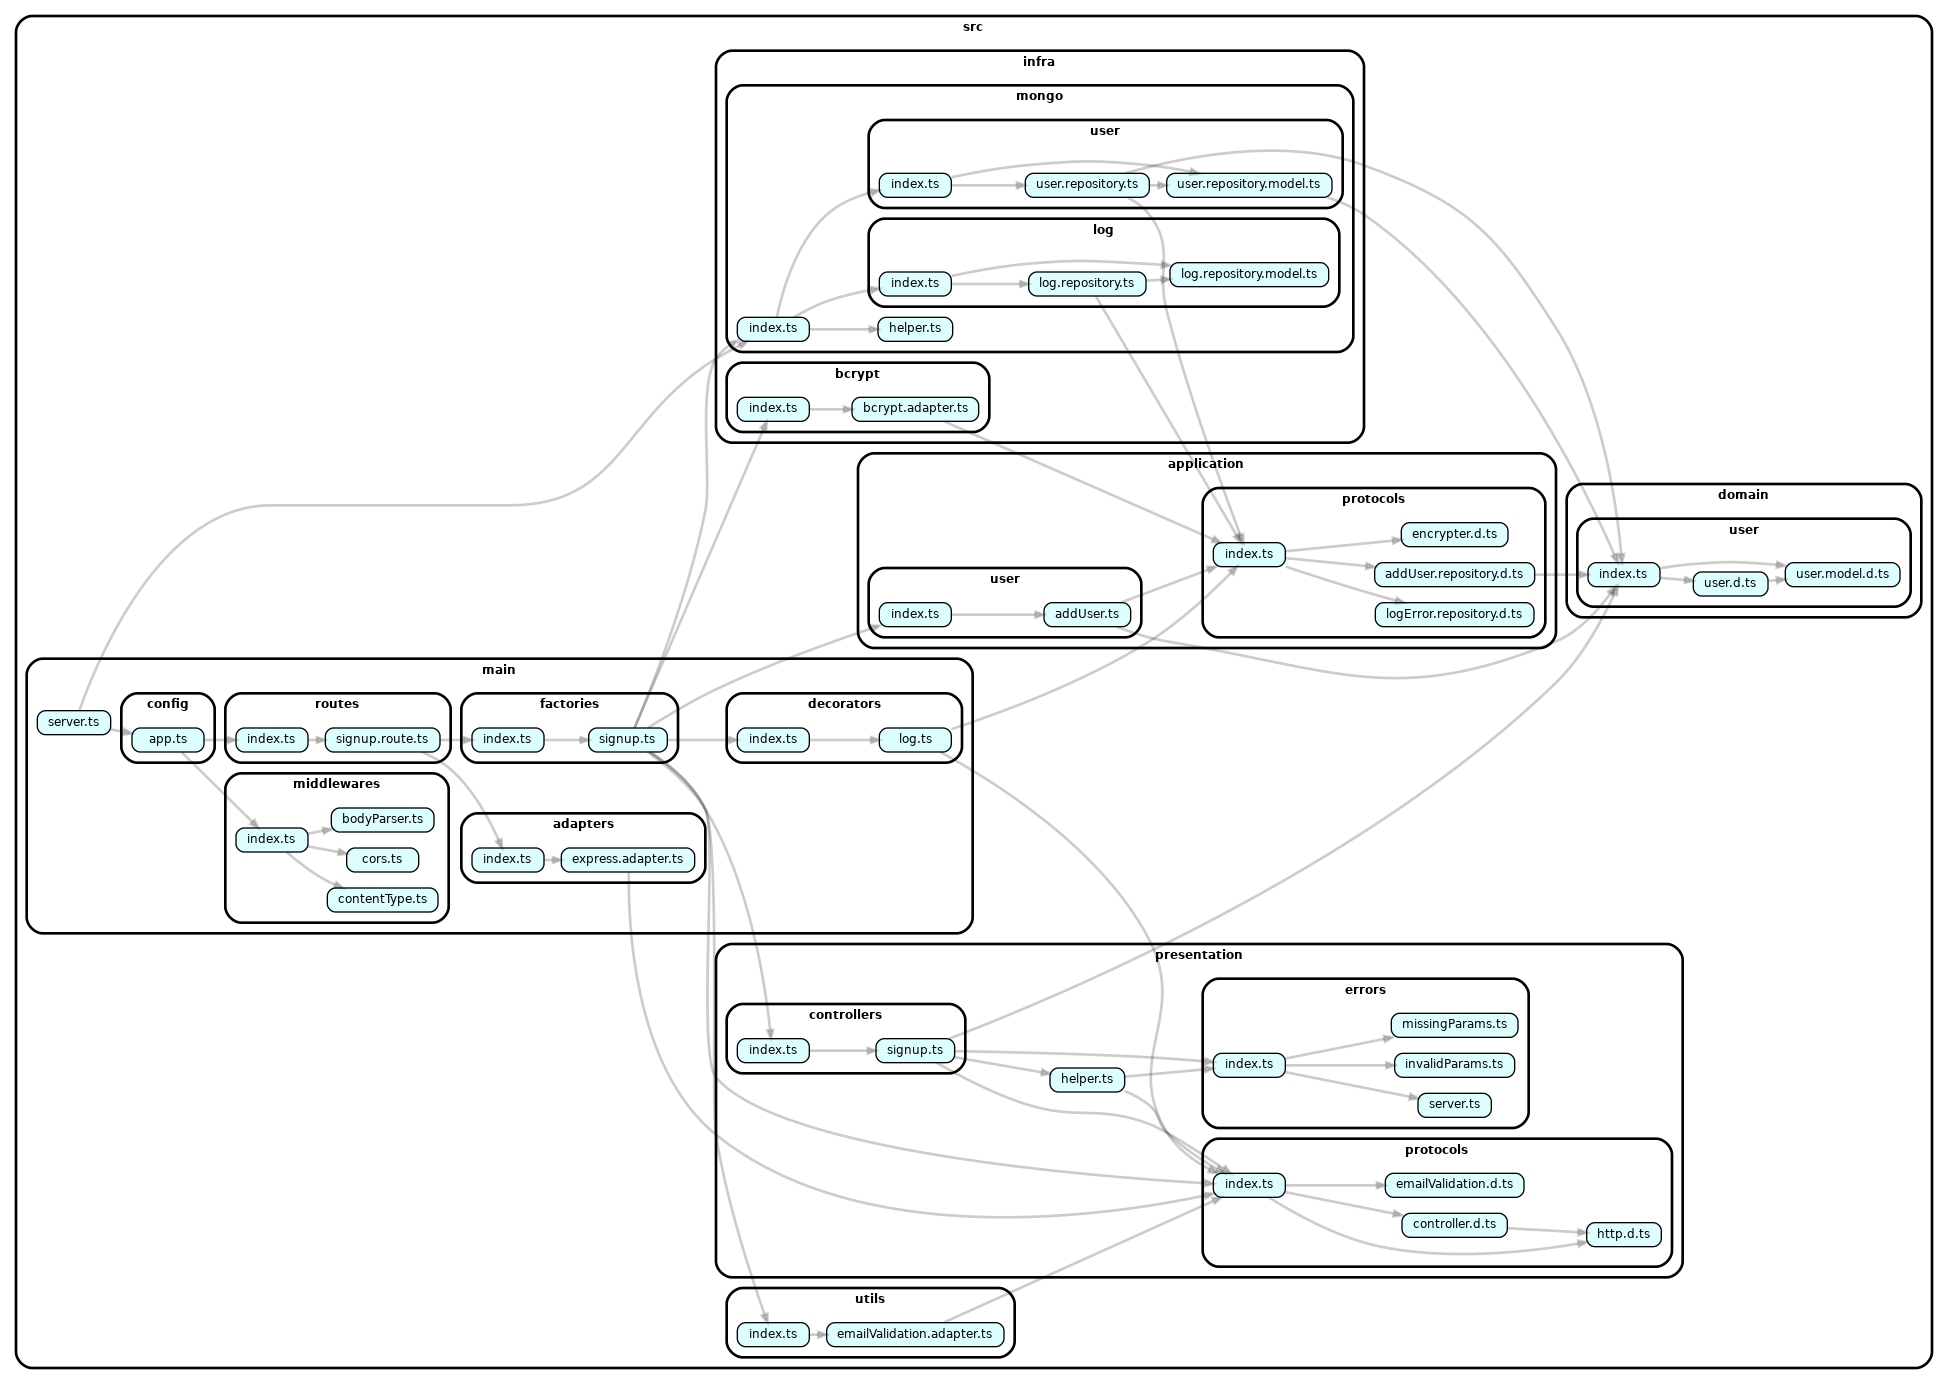
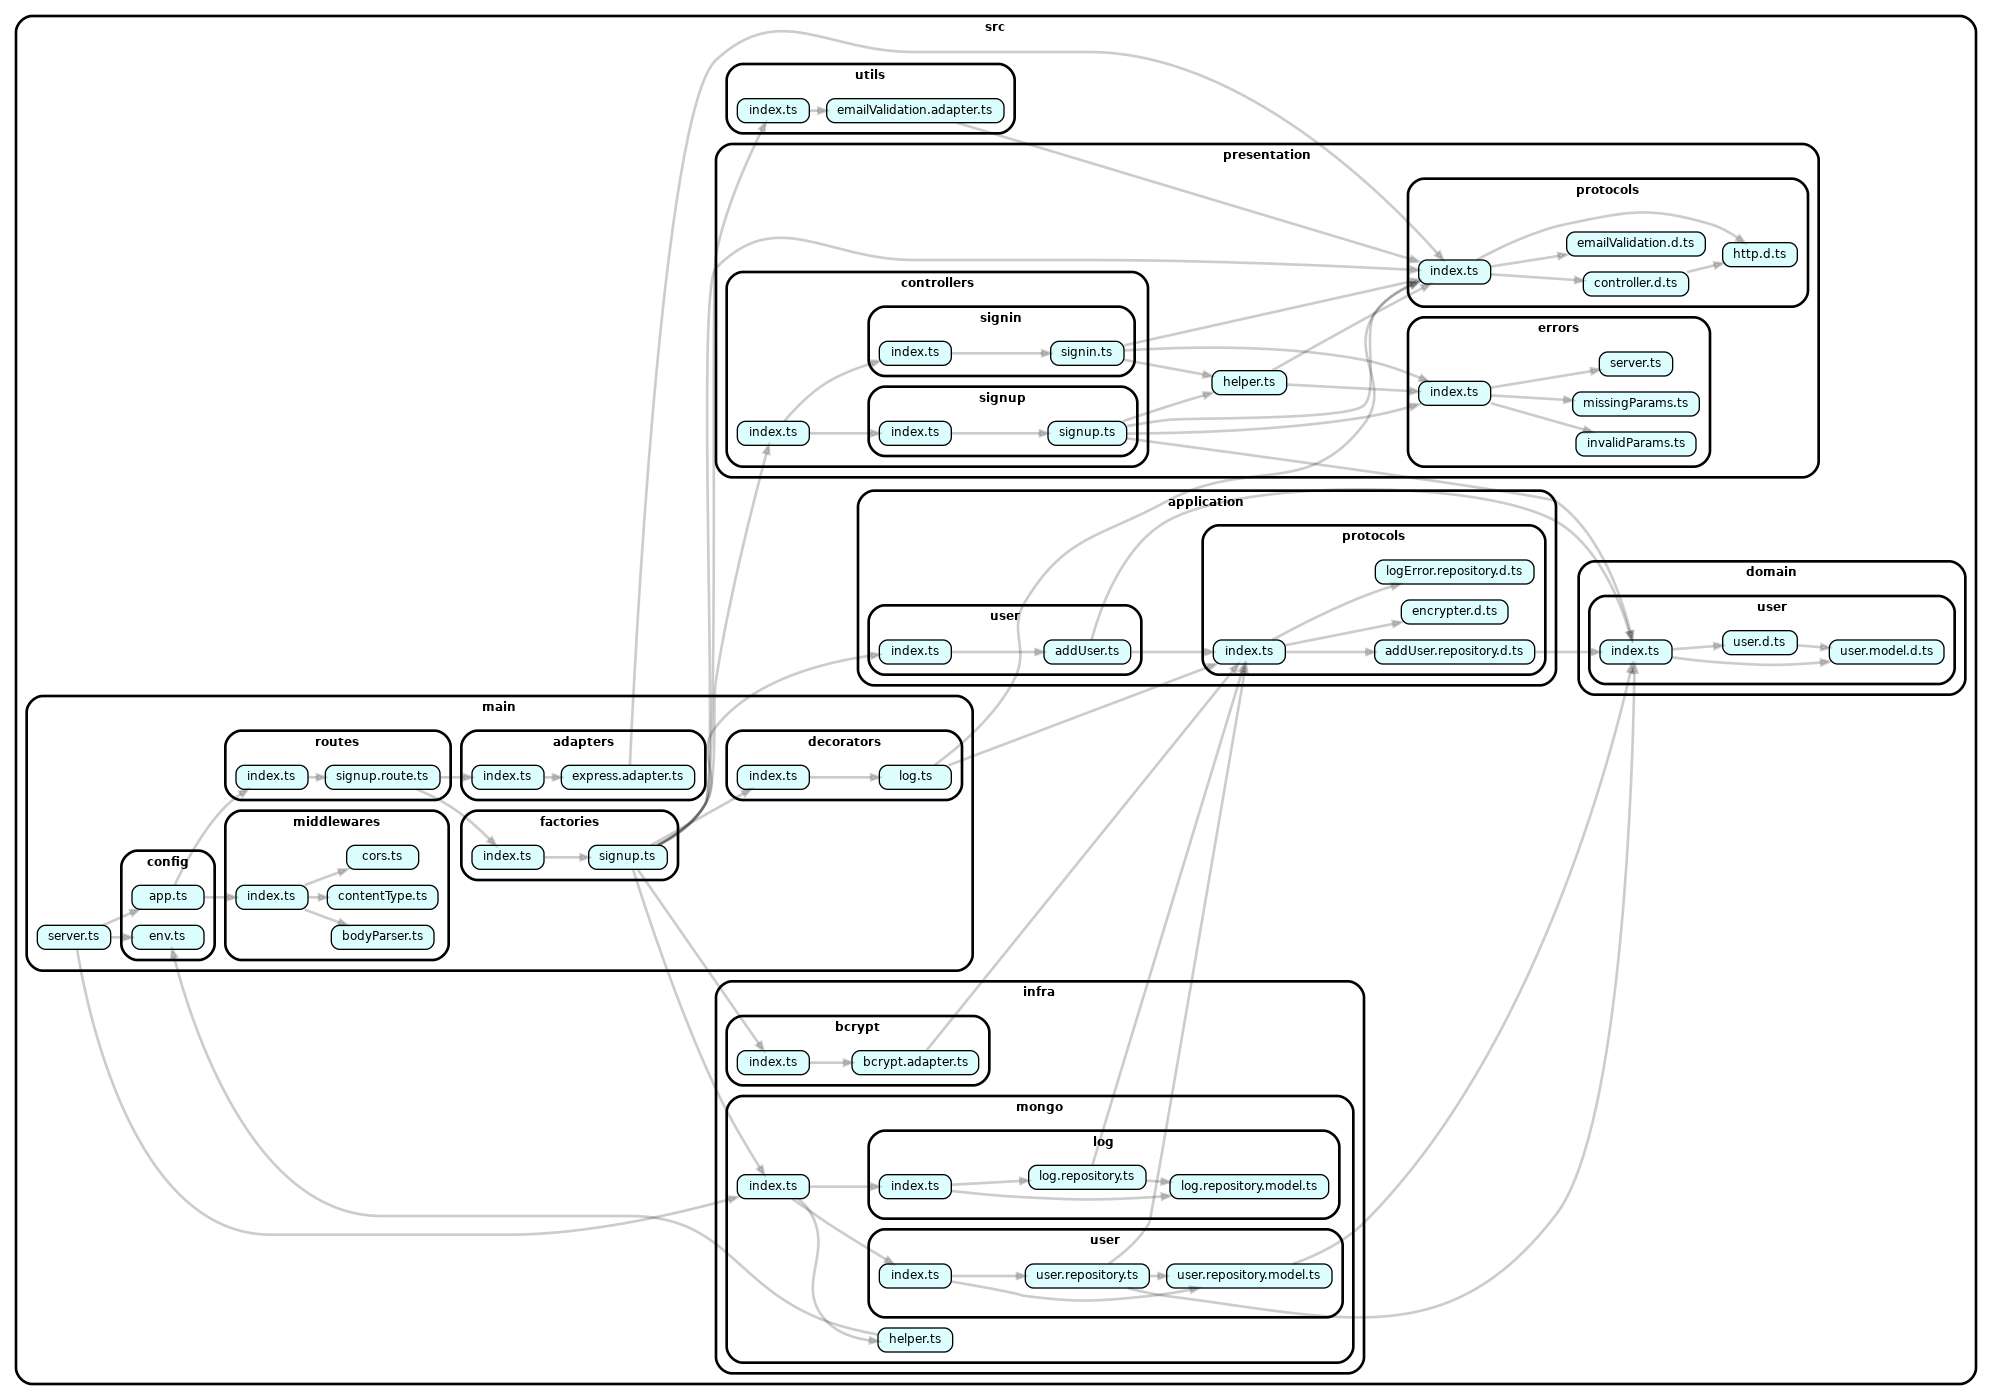
feat: add signin

Changed region(s): [[0.0, 0.0, 1.0, 0.9942], [0.77, 0.6525, 0.8316, 0.6835], [0.5236, 0.5903, 0.5544, 0.6214]]

diff --git a/src/presentation/controllers/signin/signin.spec.ts b/src/presentation/controllers/signin/signin.spec.ts
@@ -1,0 +1,78 @@
+import { InvalidParamsError, MissingParamsError } from '@/presentation/errors'
+import { badRequest } from '@/presentation/helper'
+import { IEmailValidation, IHttpRequest } from '@/presentation/protocols'
+import { SignInController } from './signin'
+
+interface IMockSignIn {
+  signInController: SignInController
+  emailValidation: IEmailValidation
+}
+
+const mockHttpRequest: IHttpRequest = {
+  body: {
+    email: 'email@gmail.com',
+    password: 'password',
+  },
+}
+
+const mockEmailValidation = (): IEmailValidation => {
+  class EmailValidationMock implements IEmailValidation {
+    isValid(): boolean {
+      return true
+    }
+  }
+  return new EmailValidationMock()
+}
+
+const mockSignin = (): IMockSignIn => {
+  const emailValidation = mockEmailValidation()
+  const signInController = new SignInController(emailValidation)
+  return {
+    signInController,
+    emailValidation,
+  }
+}
+
+describe('Sign In Controller', () => {
+  test('400 if no email is provided', async () => {
+    const { signInController } = mockSignin()
+    const httpRequest = {
+      body: {
+        password: 'password',
+      },
+    }
+    const httpResponse = await signInController.handle(httpRequest)
+
+    expect(httpResponse).toEqual(badRequest(new MissingParamsError('email')))
+  })
+
+  test('400 if no password is provided', async () => {
+    const { signInController } = mockSignin()
+    const httpRequest = {
+      body: {
+        email: 'email',
+      },
+    }
+    const httpResponse = await signInController.handle(httpRequest)
+
+    expect(httpResponse).toEqual(badRequest(new MissingParamsError('password')))
+  })
+
+  test('400 if an invalid email', async () => {
+    const { signInController, emailValidation } = mockSignin()
+
+    jest.spyOn(emailValidation, 'isValid').mockReturnValueOnce(false)
+    const httpresponse = await signInController.handle(mockHttpRequest)
+
+    expect(httpresponse).toEqual(badRequest(new InvalidParamsError('email')))
+  })
+
+  test('call EmailValidation with correct email', async () => {
+    const { signInController, emailValidation } = mockSignin()
+
+    const isValidSpy = jest.spyOn(emailValidation, 'isValid')
+    await signInController.handle(mockHttpRequest)
+
+    expect(isValidSpy).toHaveBeenCalledWith('email@gmail.com')
+  })
+})

diff --git a/src/presentation/controllers/signin/signin.ts b/src/presentation/controllers/signin/signin.ts
@@ -1,0 +1,36 @@
+import { InvalidParamsError, MissingParamsError } from '@/presentation/errors'
+import { badRequest } from '@/presentation/helper'
+import {
+  IController,
+  IEmailValidation,
+  IHttpRequest,
+  IHttpResponse,
+} from '@/presentation/protocols'
+
+export class SignInController implements IController {
+  private readonly emailValidation: IEmailValidation
+
+  constructor(emailValidation: IEmailValidation) {
+    this.emailValidation = emailValidation
+  }
+
+  async handle(httpRequest: IHttpRequest): Promise<IHttpResponse> {
+    const requiredFields = ['email', 'password']
+
+    for (const field of requiredFields) {
+      if (httpRequest.body[field] === undefined) {
+        return badRequest(new MissingParamsError(field))
+      }
+    }
+
+    const { email, _password } = httpRequest.body
+
+    const isValidEmail = this.emailValidation.isValid(email)
+    if (!isValidEmail) {
+      return badRequest(new InvalidParamsError('email'))
+    }
+
+    // TODO remove this !!!
+    return Promise.resolve({ body: {}, status: 200 })
+  }
+}

diff --git a/src/presentation/controllers/signup/signup.spec.ts b/src/presentation/controllers/signup/signup.spec.ts
@@ -73,8 +73,7 @@ describe('SignUp Controller', () => {
     }
     const httpresponse = await signUpController.handle(httprequest)
 
-    expect(httpresponse?.status).toBe(400)
-    expect(httpresponse?.body).toEqual(new MissingParamsError('name'))
+    expect(httpresponse).toEqual(badRequest(new MissingParamsError('name')))
   })
 
   test('400 if no email is provided', async () => {

diff --git a/src/presentation/controllers/signin/index.ts b/src/presentation/controllers/signin/index.ts
@@ -1,2 +1,1 @@
-export * from './signup'
 export * from './signin'
